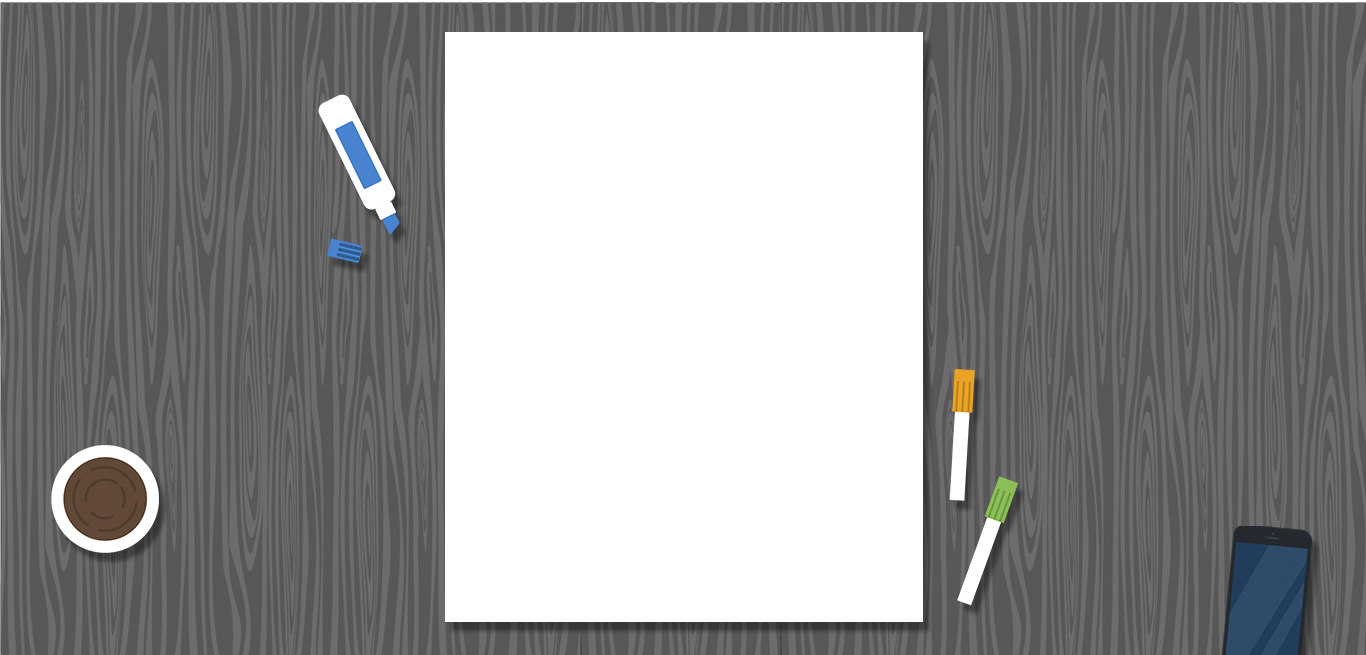
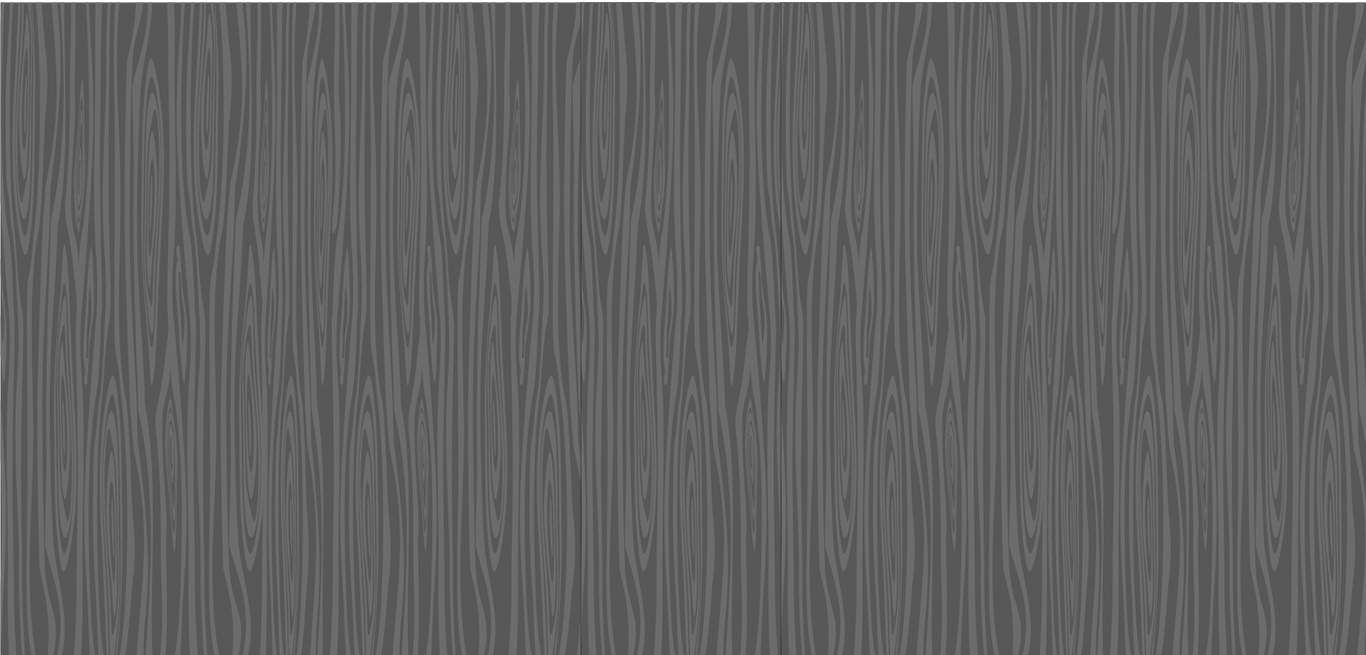
Imagens como objt

diff --git a/js/app.js b/js/app.js
@@ -33,6 +33,12 @@ var game = new Phaser.Game(window.innerWidth - 15, window.innerHeight - 20, Phas
 
 function preload() {
     game.load.image('fundo', 'img/fundo.png');
+    game.load.image('folha', 'img/folha.png');
+    game.load.image('canetaAzul', 'img/canetaAzul.png');
+    game.load.image('canetas', 'img/canetas.png');
+    game.load.image('cafe', 'img/cafe.png');
+    game.load.image('smartphone', 'img/smartphone.png');
+    
 	//game.stage.backgroundColor = "#e0e4f1";
     tangran.forEach(function (item) {
 		game.load.image(item.figureName, item.url);
@@ -41,6 +47,11 @@ function preload() {
 
 function create() {
     game.add.sprite(0, 0, 'fundo');
+    game.add.sprite(450 , 30, 'folha');
+    game.add.sprite(350 , 50, 'canetaAzul');
+    game.add.sprite(950 , 380, 'canetas');
+    game.add.sprite(30 , 420, 'cafe');
+    game.add.sprite(1230 , 550, 'smartphone');
     
 	tangran.forEach(function (item, i) {
 		game.physics.startSystem(Phaser.Physics.ARCADE);
